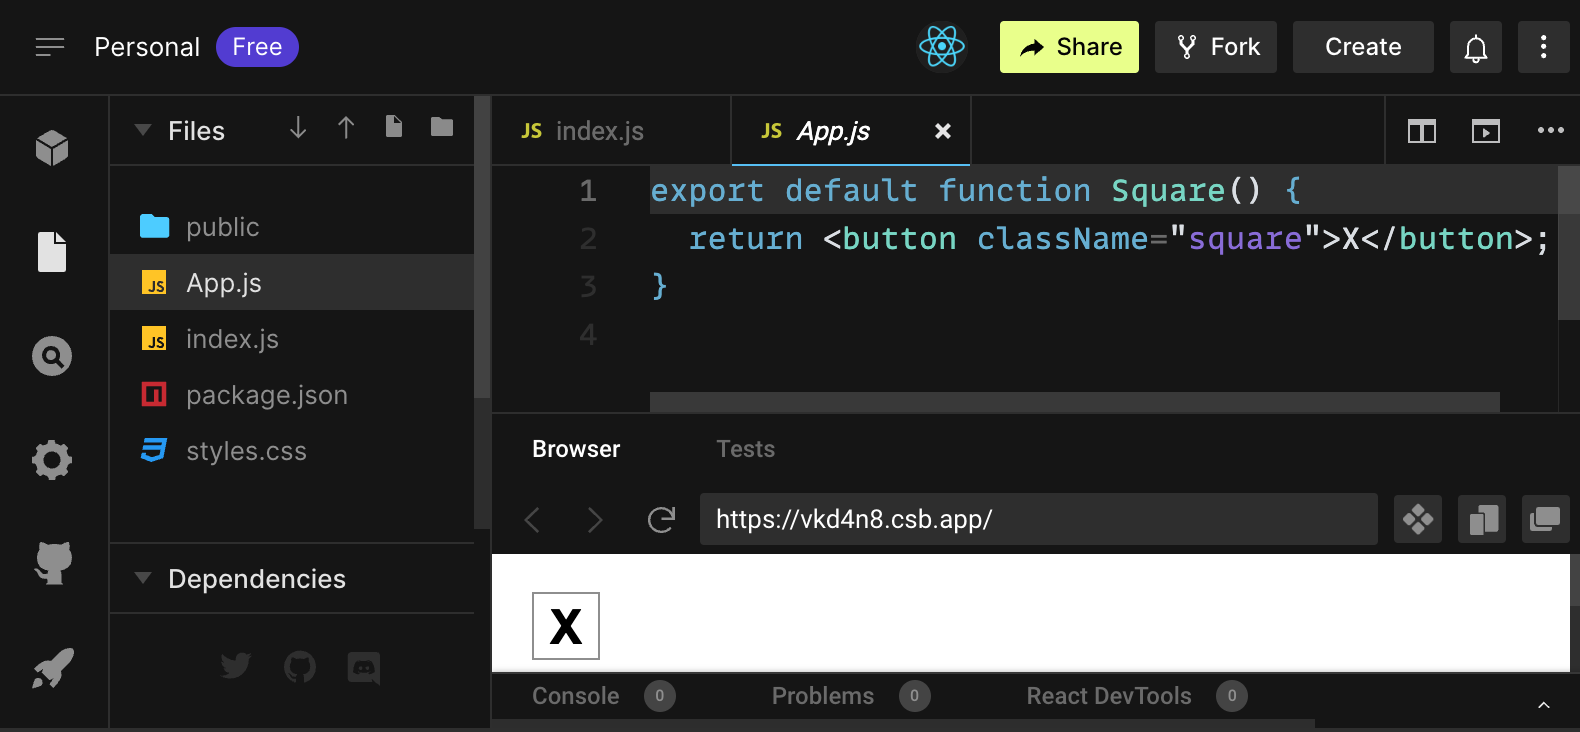
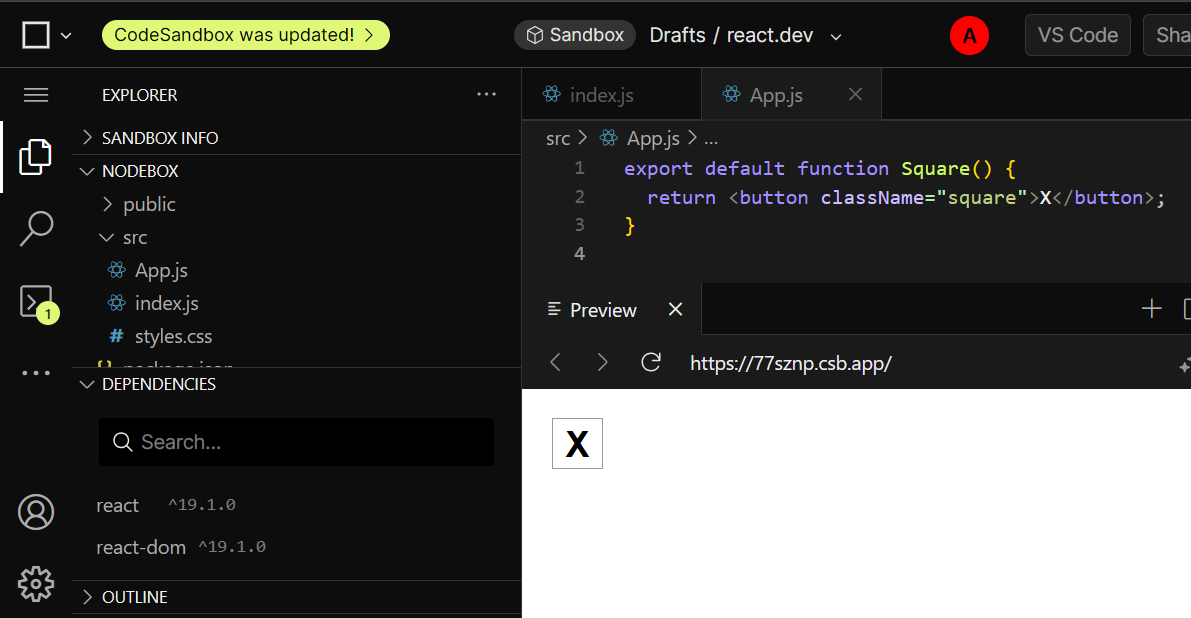
Fix/tictactoe docs invalid file names (#7969)
* fix: changed source file names in docs from App.js, index.js and styles.css to src/ dir

* fix: updated wrong image with the correct one with current sandbox file structure

* refactor: reverted all formatting and just just mention src folder in introductory section

* Reverted changes tutorial-tic-tac-toe.md

* added enhanced image of sandbox

diff --git a/src/content/learn/tutorial-tic-tac-toe.md b/src/content/learn/tutorial-tic-tac-toe.md
@@ -283,7 +283,7 @@ In CodeSandbox you'll see three main sections:
 
 ![CodeSandbox with starter code](../images/tutorial/react-starter-code-codesandbox.png)
 
-1. The _Files_ section with a list of files like `App.js`, `index.js`, `styles.css` and a folder called `public`
+1. The _Files_ section with a list of files like `App.js`, `index.js`, `styles.css` in `src` folder and a folder called `public`
 1. The _code editor_ where you'll see the source code of your selected file
 1. The _browser_ section where you'll see how the code you've written will be displayed
 